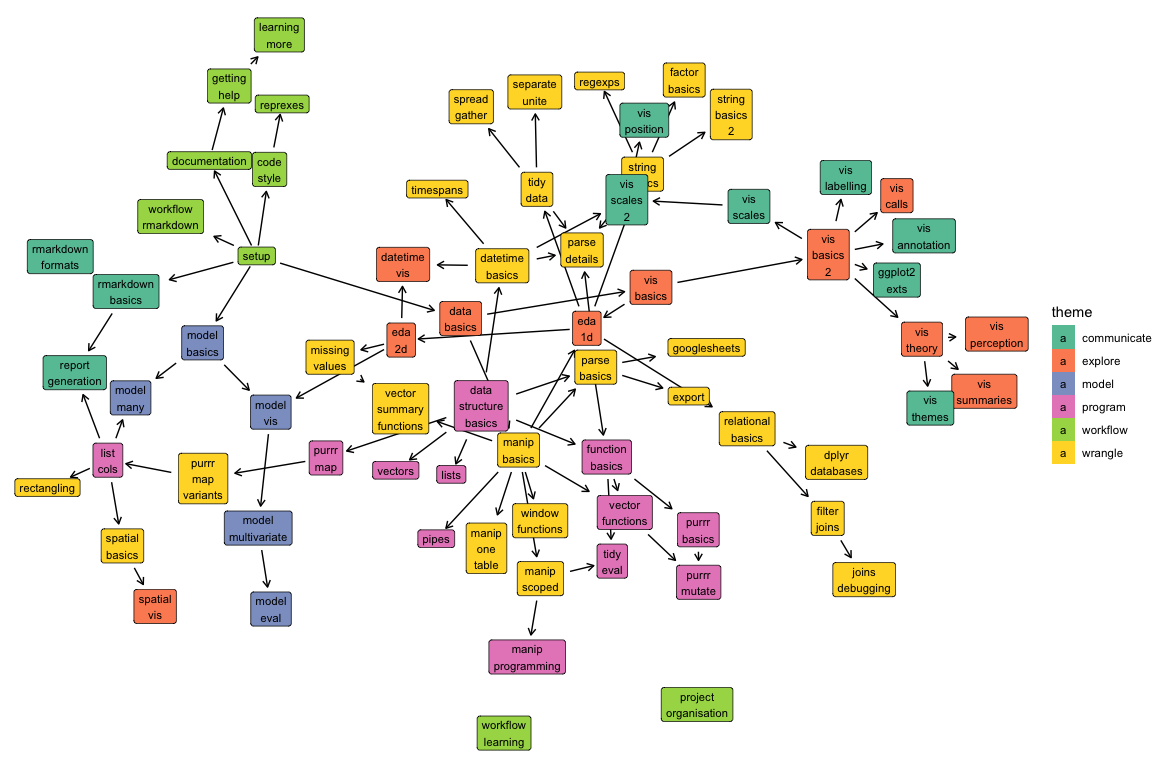
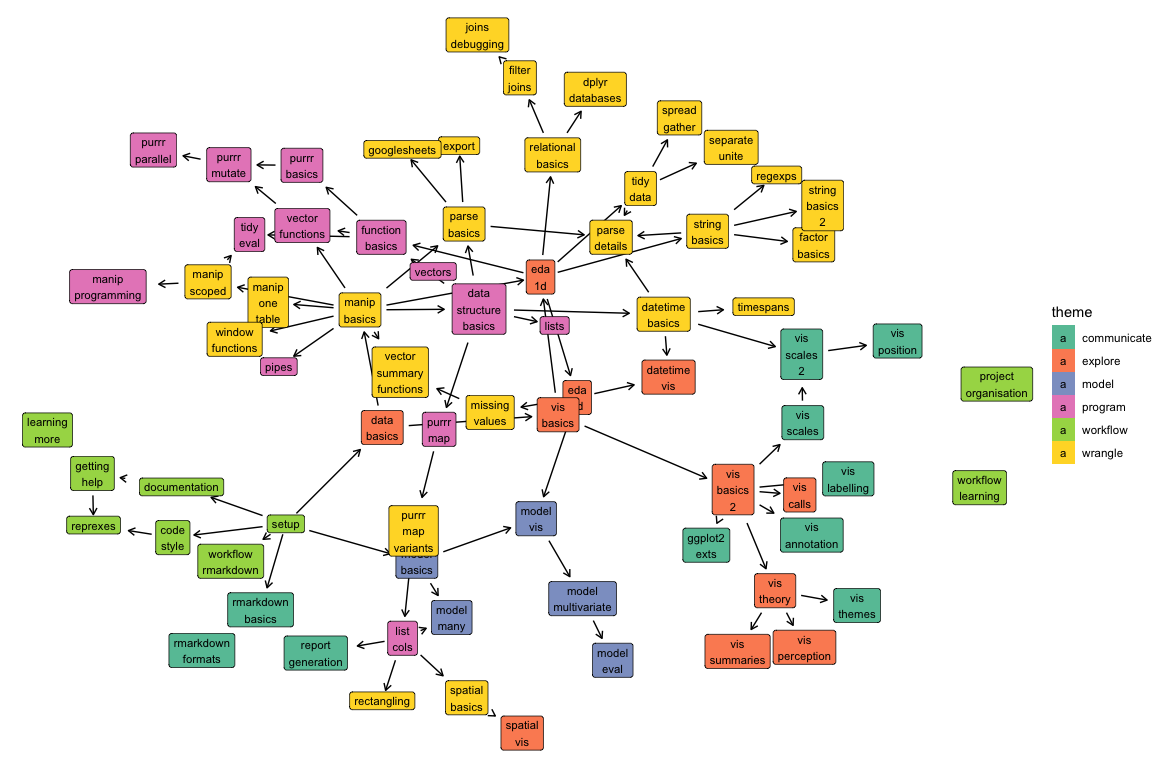
Add purrr-parllel

Changed region(s): [[0.0, 0.0, 0.9062, 1.0], [0.1562, 0.0, 0.2812, 0.1562], [0.8125, 0.5938, 0.875, 0.6562]]

diff --git a/docs/purrr-parallel.md b/docs/purrr-parallel.md
@@ -1,0 +1,151 @@
+---
+title: purrr map with multiple inputs
+---
+
+<!-- Generated automatically from purrr-parallel.yml. Do not edit by hand -->
+
+# purrr map with multiple inputs <small class='program'>[program]</small>
+<small>(Builds on: [purrr inside mutate](purrr-mutate.md))</small>
+
+
+In the previous purrr units, you learned how to use the `map()` functions to iterate over a single vector and apply a function to each element. `purrr` also contains functions that can iterate over several vectors in parallel, supplying the first elements of each vector to a given function, then the second, then the third, etc.
+
+`purrr`'s parallel mapping functions allow the assembly line to have multiple, syncronized input conveyor belts. Our factory worker uses the nth item from each input conveyor belt to create a new object that becomes the nth item on the output conveyor belt.
+
+Below, you'll learn about the `map2()` functions, which can handle two input vectors, and the `pmap()` functions, which can handle any number of input vectors.
+
+`map2()`
+--------
+
+The `map2()` functions are very similar to the `map()` functions you learned about previously, but they take two input vectors instead of one.
+
+``` r
+x <- c(1, 2, 4)
+y <- c(6, 5, 3)
+
+map2_dbl(x, y, min)
+```
+
+    ## [1] 1 2 3
+
+Since the `map2()` functions iterate along the two vectors in parallel, they need to be the same length.
+
+``` r
+x2 <- c(1, 2, 4)
+y2 <- c(6, 5)
+
+map2_dbl(x2, y2, min)
+```
+
+    ## Error: `.x` (3) and `.y` (2) are different lengths
+
+Inside anonymous functions in the `map()` functions, you refer to each element of the input vector as `.`. In the `map2()` functions, you refer to elements of the first vector as `.x` and elements of the second as `.y`.
+
+``` r
+map2_chr(x, y, ~ str_glue("The minimum of {.x} and {.y} is {min(.x, .y)}."))
+```
+
+    ## [1] "The minimum of 1 and 6 is 1." "The minimum of 2 and 5 is 2."
+    ## [3] "The minimum of 4 and 3 is 3."
+
+If you don't create an anonymous function and use a named function instead, the first vector will be supplied as the first argument to the function and the second vector will be supplied as the second argument.
+
+`pmap()`
+--------
+
+There are no `map3()` or `map4()` functions. Instead, you can use a `pmap()` ("p" for parallel) function to map over more than two vectors.
+
+The `pmap()` functions work slightly differently than the `map()` and `map2()` functions. In `map()` and `map2()` functions, you specify the vector(s) to supply to the function. In `pmap()` functions, however, you specify a single list that contains all the vectors you want to supply to your function.
+
+``` r
+list(
+  a = c(50, 60, 70),
+  b = c(10, 90, 40),
+  c = c(1, 105, 2000)
+) %>% 
+  pmap_dbl(min)
+```
+
+    ## [1]  1 60 40
+
+`pmap_dbl()` takes the nth elements of `a`, `b`, and `c` and calls `min()` with these three values to obtain the nth output value.
+
+Tibbles are lists, so they work in exactly the same way.
+
+``` r
+tibble(
+  a = c(50, 60, 70),
+  b = c(10, 90, 40),
+  c = c(1, 105, 2000)
+) %>% 
+  pmap_dbl(min)
+```
+
+    ## [1]  1 60 40
+
+### Anonymous functions
+
+When using an anonymous function in `pmap()`, use `..1`, `..2`, `..3`, etc. to refer to the different vectors.
+
+``` r
+state_animals <- 
+  tribble(
+    ~state, ~type, ~animal, ~binomial,
+    "Alaska", "land mammal", "Moose", "Alces alces",
+    "Delaware", "bug", "7-spotted ladybug", "Coccinella septempunctata",
+    "Hawaii", "fish", "Humuhumunukunukuāpuaʻa", "Rhinecanthus rectangulus",
+    "Maine", "crustacean", "lobster", "Homarus americanus" 
+  )
+
+state_animals %>% 
+  pmap_chr(~ str_glue("The {..1} state {..2} is the {..3}."))
+```
+
+    ## [1] "The Alaska state land mammal is the Moose."          
+    ## [2] "The Delaware state bug is the 7-spotted ladybug."    
+    ## [3] "The Hawaii state fish is the Humuhumunukunukuāpuaʻa."
+    ## [4] "The Maine state crustacean is the lobster."
+
+`..1` refers to the first variable (here, `state`), `..2` to the second, and so on.
+
+### Named functions
+
+For named functions, `pmap()` will match the names of the input list or tibble with the names of the function arguments. This can result in elegant code. But for this to work, it's important that:
+
+-   The list or tibble input variable names match those of the function arguments.
+-   You must have **the same number of input variables as function arguments**.
+
+Let's start with an example of what doesn't work. First, we'll create a named function.
+
+``` r
+state_sentence <- function(animal, type, state) {
+  str_glue("The {state} state {type} is the {animal}.")
+}
+```
+
+This does not work:
+
+``` r
+state_animals %>% 
+  pmap_chr(state_sentence)
+```
+
+    ## Error in .f(state = .l[[c(1L, i)]], type = .l[[c(2L, i)]], animal = .l[[c(3L, : unused argument (binomial = .l[[c(4, i)]])
+
+`state_animals` has four variables, but `state_sentence` is expecting three. The number of input variables must match the number of function arguments.
+
+You can fix the problem by simply getting rid of the unused variable.
+
+``` r
+state_animals %>% 
+  select(-binomial) %>% 
+  pmap_chr(state_sentence)
+```
+
+    ## [1] "The Alaska state land mammal is the Moose."          
+    ## [2] "The Delaware state bug is the 7-spotted ladybug."    
+    ## [3] "The Hawaii state fish is the Humuhumunukunukuāpuaʻa."
+    ## [4] "The Maine state crustacean is the lobster."
+
+Note that the order of the variables in `state_animals` is different than the order of the arguments in `state_sentence`. `pmap()` matches input variables with function arguments by name, so the orderings don't matter. However, this means that the two sets of names must be identical.
+

diff --git a/docs/purrr-mutate.md b/docs/purrr-mutate.md
@@ -5,7 +5,8 @@ title: purrr inside mutate
 <!-- Generated automatically from purrr-mutate.yml. Do not edit by hand -->
 
 # purrr inside mutate <small class='program'>[program]</small>
-<small>(Builds on: [purrr basics](purrr-basics.md), [Vector functions](vector-functions.md))</small>
+<small>(Builds on: [purrr basics](purrr-basics.md), [Vector functions](vector-functions.md))</small>  
+<small>(Leads to: [purrr map with multiple inputs](purrr-parallel.md))</small>
 
 
 In the vector functions unit, you learned to add new variables to tibbles by giving `mutate()` a vector with an element for each row in the tibble. You saw that you can do any of the following to create this vector:

diff --git a/docs/index.md b/docs/index.md
@@ -303,6 +303,12 @@ title: Theme index
 </tr>
 <tr>
 <td></td>
+  <td colspan="2"></td>
+  <td colspan="4"><a class="program" href="purrr-parallel.html">purrr map with multiple inputs</a></td>
+  <td colspan="3"></td>
+</tr>
+<tr>
+<td></td>
   <td colspan="3"></td>
   <td colspan="4"><a class="model" href="model-many.html">Many models</a></td>
   <td colspan="2"></td>

diff --git a/docs/upcoming.md b/docs/upcoming.md
@@ -303,6 +303,12 @@ title: Theme index
 </tr>
 <tr>
 <td></td>
+  <td colspan="2"></td>
+  <td colspan="4"><a class="program" href="purrr-parallel.html">purrr map with multiple inputs</a></td>
+  <td colspan="3"></td>
+</tr>
+<tr>
+<td></td>
   <td colspan="3"></td>
   <td colspan="4"><a class="model" href="model-many.html">Many models</a></td>
   <td colspan="2"></td>
